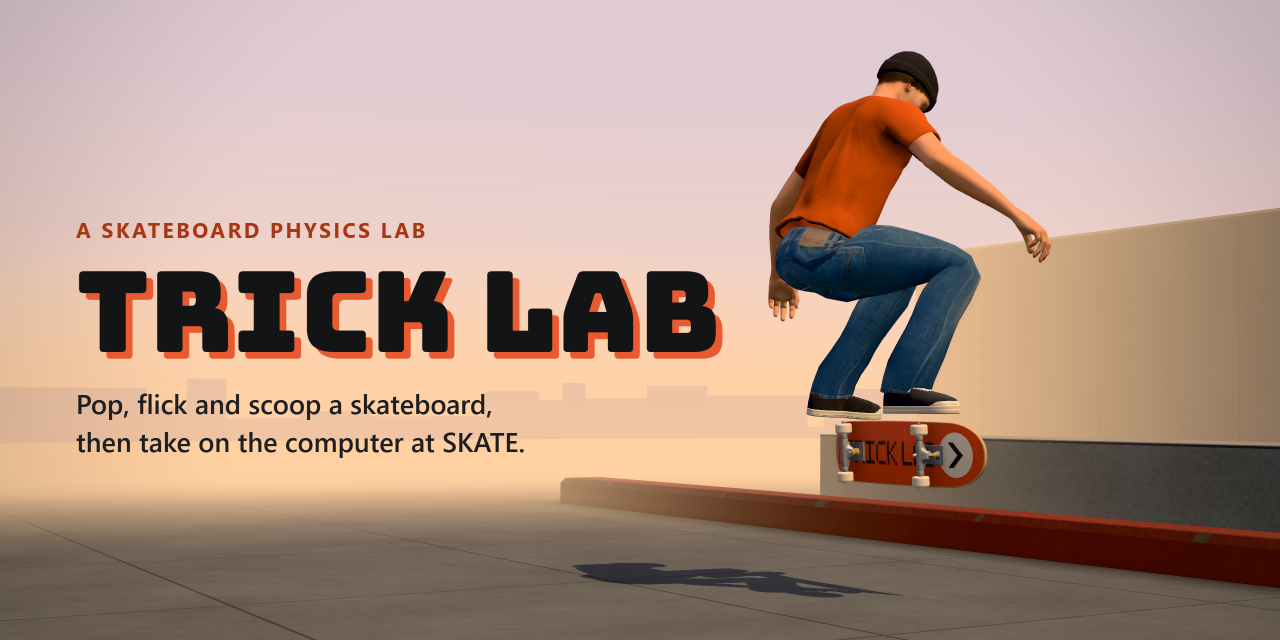
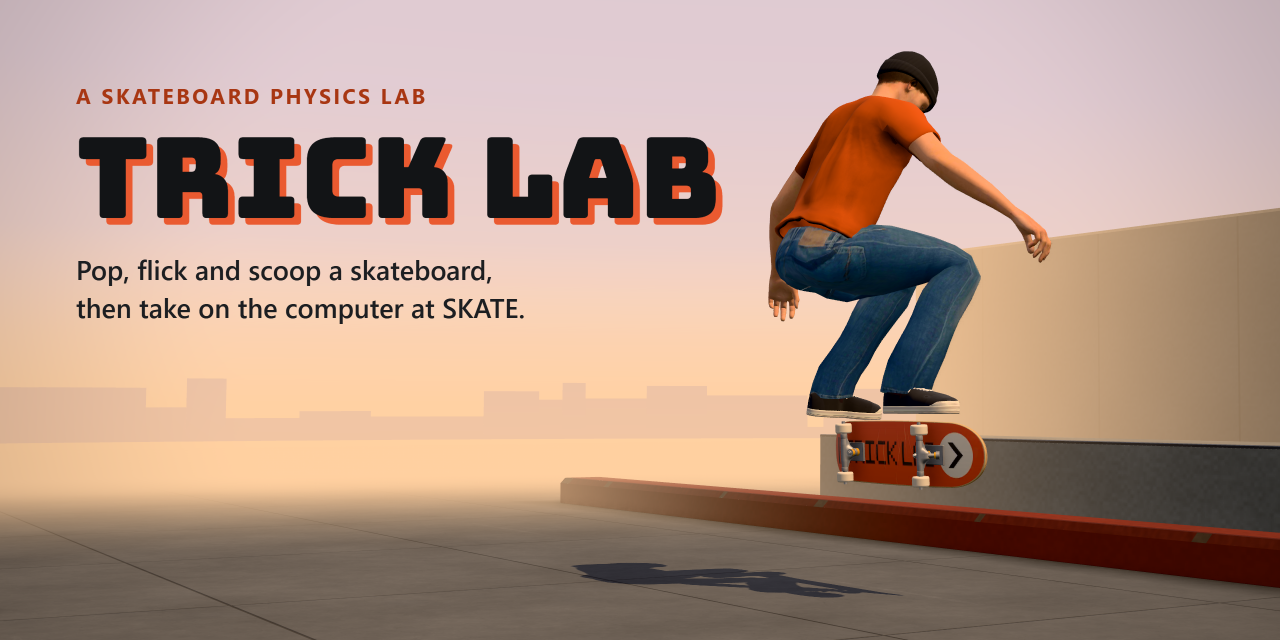
Card: move the title block up toward the top
The eyebrow, title and tagline sit 134 px higher in the 1280 x 640 card, the open sky above the city.

Changed region(s): [[0.0625, 0.125, 0.5625, 0.375], [0.0625, 0.4062, 0.5625, 0.5625], [0.0625, 0.625, 0.4062, 0.7188]]

diff --git a/scripts/shot/capture.js b/scripts/shot/capture.js
@@ -188,18 +188,18 @@ async (page) => {
           g.fillStyle = '#a83612';
           g.font = `700 ${21 * k}px ${sans}`;
           g.letterSpacing = `${2.5 * k}px`;
-          g.fillText('A SKATEBOARD PHYSICS LAB', x, 238 * k);
+          g.fillText('A SKATEBOARD PHYSICS LAB', x, 104 * k);
           g.letterSpacing = '0px';
           g.font = `${112 * k}px Bungee`;
           const off = 0.06 * 112 * k;
           g.fillStyle = '#ea5a30';
-          g.fillText('TRICK LAB', x + off, 352 * k + off);
+          g.fillText('TRICK LAB', x + off, 218 * k + off);
           g.fillStyle = '#121416';
-          g.fillText('TRICK LAB', x, 352 * k);
+          g.fillText('TRICK LAB', x, 218 * k);
           g.font = `500 ${27 * k}px ${sans}`;
           g.fillStyle = '#1c1e21';
-          g.fillText('Pop, flick and scoop a skateboard,', x, 414 * k);
-          g.fillText('then take on the computer at SKATE.', x, 452 * k);
+          g.fillText('Pop, flick and scoop a skateboard,', x, 280 * k);
+          g.fillText('then take on the computer at SKATE.', x, 318 * k);
           return c.toDataURL('image/png').split(',')[1];
         },
         [png, shot.w],
